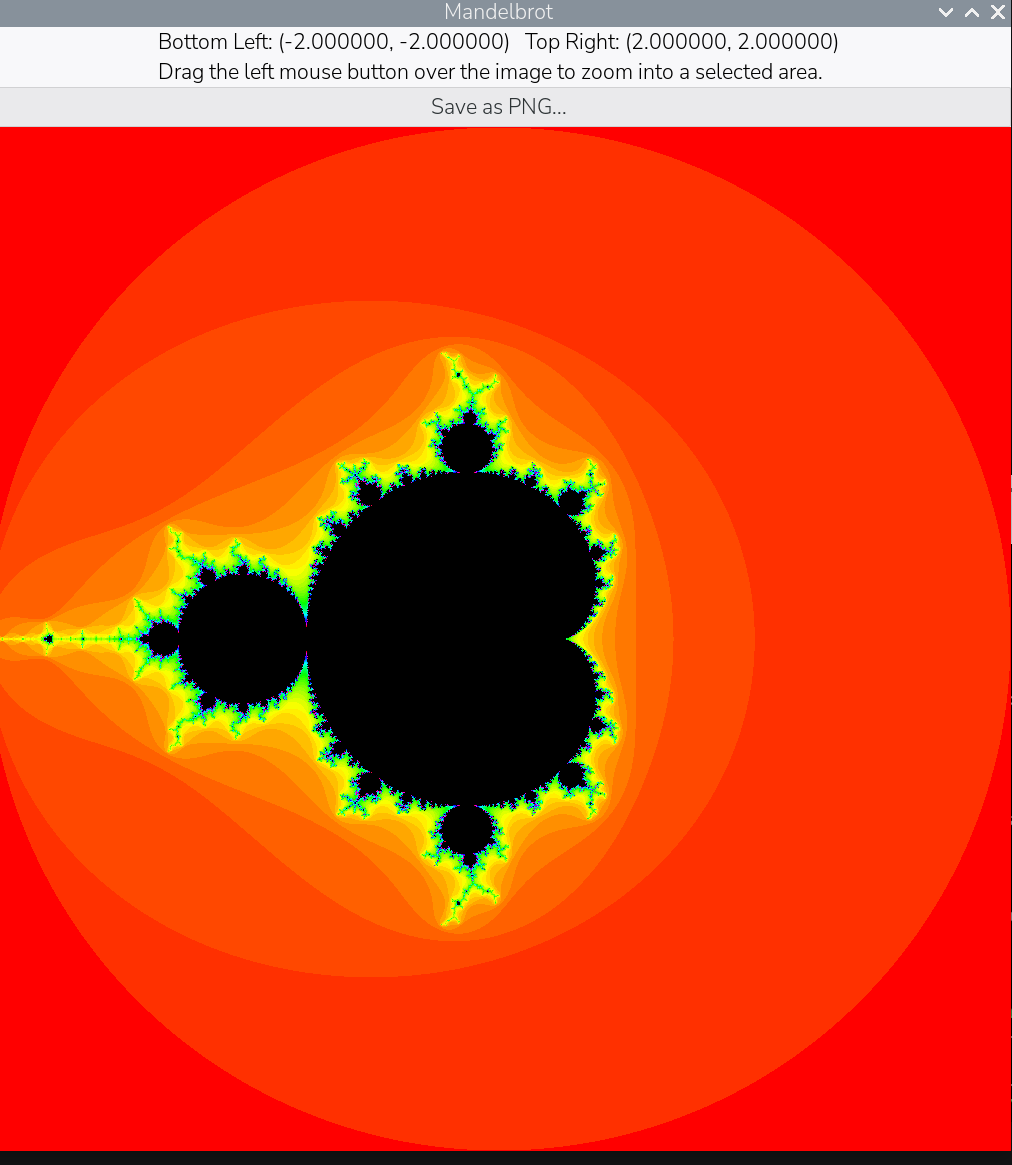
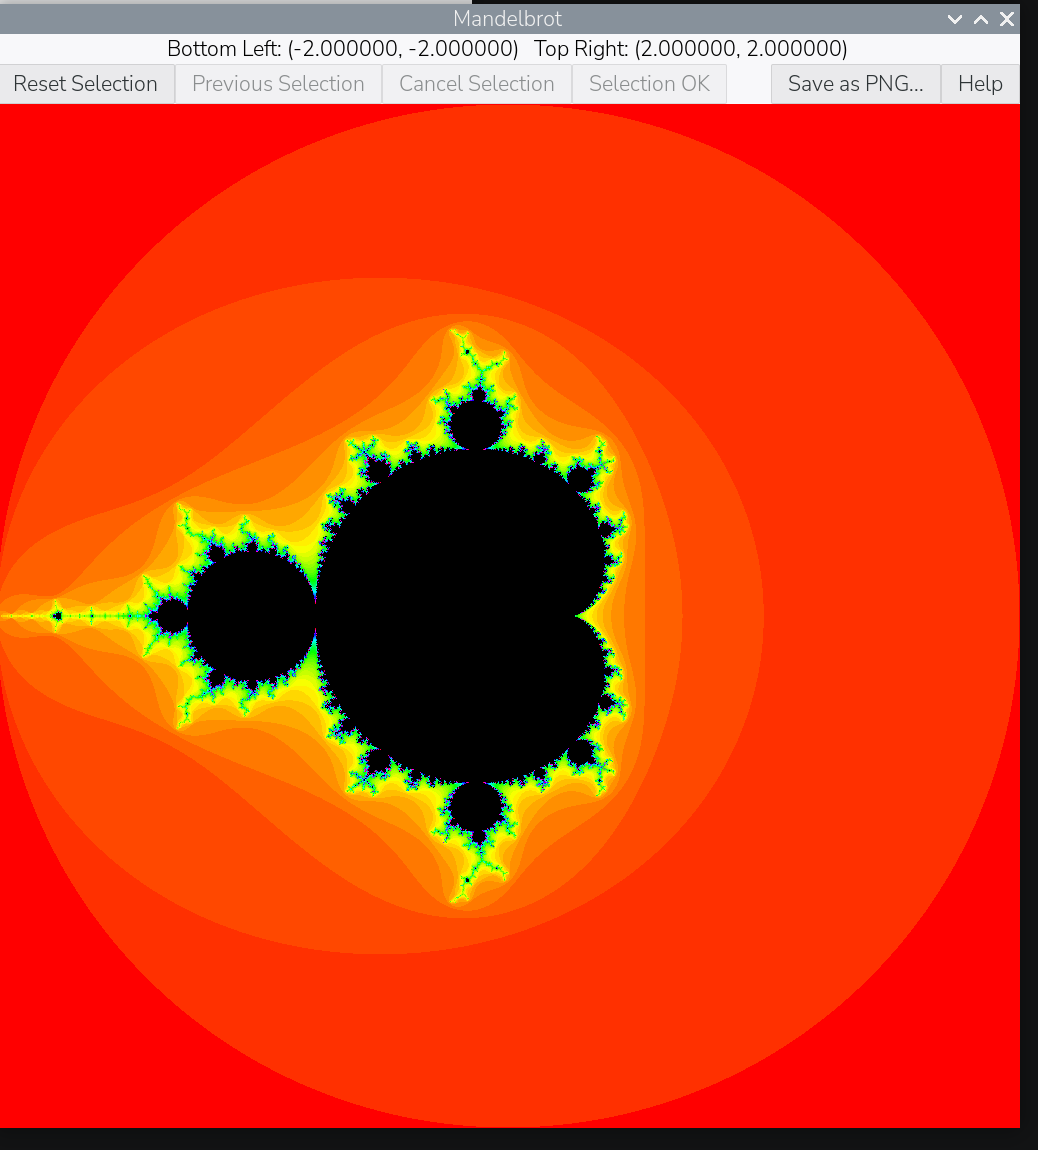
Update docs and screenshot for the multi-core engine and new buttons
README and CLAUDE.md described the pre-refactor single-threaded
Generate_Set and the old immediate-recalculate-on-drag-release
behaviour; bring both up to date with Calculation_Engine and the
Reset/Previous/Cancel/Selection OK/Help button flow. Recapture the
screenshot to show the new button row and shortened label.

Claude-Session: https://claude.ai/code/session_016M2FkmsTWD6GTQZRYQ2N2A

diff --git a/CLAUDE.md b/CLAUDE.md
@@ -19,36 +19,57 @@ regenerated content.
 
 - `src/mandelbrot.adb` is a thin entry point that only calls
   `Mandelbrot_GUI.Run`.
-- `src/mandelbrot_gui.ads`/`.adb` hold everything else: Mandelbrot
-  generation, the colour palette, Cairo rendering, mouse-driven selection,
-  and PNG export. All GUI state (`Bottom_Left`, `Top_Right`,
-  `Display_Buffer`, `Surface`, the widgets) is declared at package-body
-  level, not inside `Run`.
+- `src/calculation_engine.ads`/`.adb` compute the Mandelbrot set across
+  four persistent Ada tasks (`Calculators`, each striping rows via
+  `Y := Y + Cores`). `Generate_Set` starts all four and blocks until each
+  reports idle; `End_Tasks` shuts them down and is called once from
+  `Mandelbrot_GUI.Run` after `Gtk.Main.Main` returns. `Display_Buffer`
+  (colour indices) must not be accessed while `Generate_Set` is running.
+- `src/mandelbrot_gui.ads`/`.adb` hold the GUI: the colour palette, Cairo
+  rendering, mouse-driven selection and its confirmation buttons, the
+  Help dialog, and PNG export. All GUI state (`Bottom_Left`, `Top_Right`,
+  `Previous_Bottom_Left`/`Previous_Top_Right`, `Selection_State`,
+  `Surface`, the widgets) is declared at package-body level, not inside
+  `Run`.
   - This is required, not stylistic: GtkAda signal callbacks (`On_Draw`,
     `On_Destroy`, `On_Button_Press`, etc.) are connected via `'Access`,
     and Ada's accessibility rules forbid taking `'Access` of a subprogram
     nested inside another subprogram for a library-level access-to-subprogram
     type. Declaring callbacks and the state they touch at package-body level
     (rather than nested inside `Run`) is what makes this legal.
-- Rendering pipeline: `Generate_Set` fills `Display_Buffer` (colour indices)
-  for the current corners; `Render_Buffer` maps those indices through
-  `Palette` into a `RGB24_Array_Access` pixel buffer backing a Cairo
-  `Image_Surface` (created once via `Create_For_Data_RGB24`). Subsequent
-  updates mutate that same buffer in place and call
-  `Cairo.Surface.Flush`/`Mark_Dirty` rather than recreating the surface.
-  `On_Draw` just blits the cached surface (plus a rubber-band rectangle
-  while dragging) — it never recomputes anything.
-- Mouse-driven zoom (`On_Button_Press`/`On_Motion`/`On_Button_Release` on the
-  `Gtk_Drawing_Area`) tracks a drag in pixel space via `Compute_Selection`,
-  which forces the selection square and clamps it to the canvas. On release,
-  the pixel rectangle is mapped back into the complex plane using the
-  current scale factor and `Recalculate` reruns `Generate_Set` for the new
-  corners.
-- `Colour_Insdices` (note: misspelled in the original code, kept for
-  consistency) is a small `Unsigned_8` subrange, not the full 0-255 range.
-  `Hue_To_RGB` divides by `Colour_Insdices'Last` (not a hardcoded 255) so
-  the full hue wheel always spans whatever that range currently is — if
-  the range changes again, no other code needs to change.
+- Rendering pipeline: `Generate_Set` (in `Calculation_Engine`) fills
+  `Display_Buffer` for the current corners; `Render_Buffer` maps those
+  indices through `Palette` into a `RGB24_Array_Access` pixel buffer
+  backing a Cairo `Image_Surface` (created once via
+  `Create_For_Data_RGB24`). Subsequent updates mutate that same buffer in
+  place and call `Cairo.Surface.Flush`/`Mark_Dirty` rather than recreating
+  the surface. `On_Draw` just blits the cached surface (plus a rubber-band
+  rectangle while a selection is being dragged or is pending) — it never
+  recomputes anything.
+- Mouse-driven zoom (`On_Button_Press`/`On_Motion`/`On_Button_Release` on
+  the `Gtk_Drawing_Area`) tracks a drag in pixel space via
+  `Compute_Selection`, which forces the selection square and clamps it to
+  the canvas. A completed drag no longer recalculates immediately: it
+  sets `Selection_State := Pending` and the square stays drawn (because
+  `Start_X/Y`/`Cur_X/Y` don't change until the next drag, `On_Draw` and
+  the button handlers can keep calling `Compute_Selection` to get the
+  same fixed rectangle) until one of the selection buttons is clicked:
+  - **Selection OK** maps the pixel rectangle into the complex plane via
+    `Corners_From_Selection` and calls `Recalculate`.
+  - **Cancel Selection** discards it without recalculating.
+  - **Reset Selection** calls `Recalculate` with the initial `(-2,-2)` to
+    `(2,2)` corners.
+  - **Previous Selection** is a single-level toggle: `Recalculate` always
+    saves the outgoing view into `Previous_Bottom_Left`/
+    `Previous_Top_Right` before overwriting `Bottom_Left`/`Top_Right`, so
+    clicking it swaps back to what was just displayed.
+  - **Help** opens a `Gtk_Message_Dialog` describing all of the above,
+    plus a build date from `GNAT.Source_Info.Compilation_ISO_Date`.
+- `Colour_Indices` (declared in `calculation_engine.ads`) is a small
+  `Unsigned_8` subrange, not the full 0-255 range. `Hue_To_RGB` divides by
+  `Colour_Indices'Last` (not a hardcoded 255) so the full hue wheel always
+  spans whatever that range currently is — if the range changes again, no
+  other code needs to change.
 - PNG export (`On_Save_Clicked`) converts the live Cairo surface to a
   `Gdk_Pixbuf` and saves it via `gdk_pixbuf_savev`, which is hand-imported
   with `pragma Import (C, ...)` because GtkAda's own `Gdk.Pixbuf.Save`

diff --git a/README.md b/README.md
@@ -6,11 +6,18 @@ A GtkAda GUI for exploring the Mandelbrot set, written in Ada.
 
 ## Features
 
-- Renders a 1024x1024 Mandelbrot set into a `Display_Buffer`, coloured with
-  a vivid hue-wheel palette (the point that never escapes is shown black).
+- Renders a 1024x1024 Mandelbrot set into a `Display_Buffer`, computed
+  across four parallel Ada tasks, coloured with a vivid hue-wheel palette
+  (the point that never escapes is shown black).
 - Displays the complex-plane coordinates of the current view's corners.
-- Drag the left mouse button over the image to select a square region;
-  releasing the button recomputes and redisplays the set for that area.
+- Drag the left mouse button over the image to select a square region.
+  The selection stays on screen until confirmed or discarded:
+  - **Selection OK** — zoom into the selected area.
+  - **Cancel Selection** — discard the selection.
+  - **Reset Selection** — return to the full initial view.
+  - **Previous Selection** — toggle back to the corners used before the
+    last zoom.
+- **Help** button describing all of the above, plus the build date.
 - "Save as PNG..." writes the currently displayed image to a PNG file,
   embedding the corner coordinates as `tEXt` metadata chunks.
 
@@ -42,8 +49,11 @@ bin/mandelbrot
 ## Project layout
 
 - `src/mandelbrot.adb` — entry point; delegates to `Mandelbrot_GUI.Run`.
-- `src/mandelbrot_gui.ads` / `.adb` — the GUI: Mandelbrot generation,
-  colour palette, rendering, mouse-driven selection, and PNG export.
+- `src/calculation_engine.ads` / `.adb` — Mandelbrot set generation, run
+  across four persistent Ada tasks.
+- `src/mandelbrot_gui.ads` / `.adb` — the GUI: colour palette, Cairo
+  rendering, mouse-driven selection and its confirmation buttons, the
+  Help dialog, and PNG export.
 
 ## License
 
